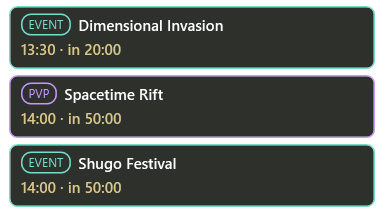
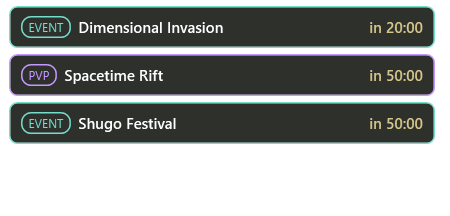
Compact event cards into one line with right-aligned countdown

diff --git a/src/AionMeter.App/Windows/TimerHubWindow.cs b/src/AionMeter.App/Windows/TimerHubWindow.cs
@@ -20,7 +20,7 @@ public sealed class TimerHubWindow : Window, IDisplayAppearance
         if (_header is not null) _header.Visibility=enabled ? Visibility.Collapsed : Visibility.Visible;
         foreach(var tile in _list.Children.OfType<Border>()) {
             tile.Background=EventPanelBrushes.Background;
-            if (tile.Child is StackPanel { Tag: EventStart item }) EventPulse.Apply(tile,EventPanelBrushes.ForKind(EventKinds.For(item.Id)),item.StartsAt <= (ClockOverride?.Invoke() ?? DateTimeOffset.UtcNow));
+            if (tile.Child is Grid { Tag: EventStart item }) EventPulse.Apply(tile,EventPanelBrushes.ForKind(EventKinds.For(item.Id)),item.StartsAt <= (ClockOverride?.Invoke() ?? DateTimeOffset.UtcNow));
         }
         foreach (var placeholder in _list.Children.OfType<TextBlock>())
             placeholder.Visibility = enabled ? Visibility.Collapsed : Visibility.Visible;
@@ -74,17 +74,17 @@ public sealed class TimerHubWindow : Window, IDisplayAppearance
             _list.Children.Clear(); _list.Tag=key;
             foreach(var item in events)
             {
-                var row=new StackPanel { Tag=item };
-                var heading=new DockPanel { LastChildFill=true };
+                var row=new Grid { Tag=item }; row.ColumnDefinitions.Add(new(){Width=GridLength.Auto}); row.ColumnDefinitions.Add(new(){Width=new GridLength(1,GridUnitType.Star)}); row.ColumnDefinitions.Add(new(){Width=GridLength.Auto});
+
                 var kind=EventKinds.For(item.Id);
                 var accent=EventPanelBrushes.ForKind(kind);
                 var badge=new Border { CornerRadius=new(6), BorderBrush=accent, BorderThickness=new(1), Padding=new(4,1,4,1), Margin=new(0,0,5,0),
                     Child=new TextBlock { Text=UiText.Current.Localize(kind), FontSize=8, Foreground=accent } };
-                DockPanel.SetDock(badge,Dock.Left); heading.Children.Add(badge);
-                heading.Children.Add(new TextBlock { Text=UiText.Current.Localize(item.Name), FontSize=10, FontWeight=FontWeights.SemiBold, VerticalAlignment=VerticalAlignment.Center, TextTrimming=TextTrimming.CharacterEllipsis });
-                row.Children.Add(heading);
-                row.Children.Add(new TextBlock { FontSize=10, FontWeight=FontWeights.SemiBold, Foreground=ColorBrush("#D8C789"), Margin=new(0,2,0,0) });
-                var tile=new Border { Child=row, CornerRadius=new(5), Padding=new(7,4,7,4), Height=42,
+                badge.VerticalAlignment=VerticalAlignment.Center; row.Children.Add(badge);
+                var name=new TextBlock { Text=UiText.Current.Localize(item.Name), FontSize=10, FontWeight=FontWeights.SemiBold, VerticalAlignment=VerticalAlignment.Center, TextTrimming=TextTrimming.CharacterEllipsis }; Grid.SetColumn(name,1); row.Children.Add(name);
+
+                var countdown=new TextBlock { FontSize=10, FontWeight=FontWeights.SemiBold, Foreground=ColorBrush("#D8C789"), Margin=new(8,0,0,0), VerticalAlignment=VerticalAlignment.Center, TextAlignment=TextAlignment.Right }; Grid.SetColumn(countdown,2); row.Children.Add(countdown);
+                var tile=new Border { Child=row, CornerRadius=new(5), Padding=new(7,4,7,4), Height=28,
                     Background=EventPanelBrushes.Background, BorderBrush=accent, BorderThickness=new(1), Margin=new(2),
                     ToolTip=$"{UiText.Current.Localize(item.Name)} · {UiText.Current.Localize(item.Id.StartsWith("boss:") ? "Time from in-game boss list" : "Community schedule · Shugo.GG")} ({UiText.Current.Localize(_cards.Saved.EventRegion)}). {UiText.Current.Localize("Double-click to open a separate window.")}" };
                 tile.MouseLeftButtonDown+=(_,e)=> {
@@ -99,9 +99,9 @@ public sealed class TimerHubWindow : Window, IDisplayAppearance
         }
         foreach(var border in _list.Children.OfType<Border>())
         {
-            var row=(StackPanel)border.Child; var item=(EventStart)row.Tag; var remaining=item.StartsAt-now;
+            var row=(Grid)border.Child; var item=(EventStart)row.Tag; var remaining=item.StartsAt-now;
             border.Width = Math.Max(220, (Width-16) / (Width>=460 ? 2 : 1));
-            ((TextBlock)row.Children[1]).Text=remaining <= TimeSpan.Zero ? string.Format(UiText.Current.Localize("Started · {0} ago"),$"{(int)(-remaining).TotalMinutes:00}:{(-remaining).Seconds:00}") : $"{TimerCards.StartLabel(item.StartsAt, now)} · {UiText.Current.Localize("in")} {(int)remaining.TotalMinutes:00}:{remaining.Seconds:00}";
+            ((TextBlock)row.Children[2]).Text=remaining <= TimeSpan.Zero ? $"{UiText.Current.Localize("Started")} · {(int)(-remaining).TotalMinutes:00}:{(-remaining).Seconds:00}" : $"{UiText.Current.Localize("in")} {(int)remaining.TotalMinutes:00}:{remaining.Seconds:00}";
         }
         SetDisplayOnly(_displayOnly);
     }

diff --git a/README.md b/README.md
@@ -4,7 +4,7 @@ A separate always-on-top Windows damage meter for AION 2 by Zerafithekitten.
 
 [Download the latest release](https://github.com/Zerafithekitten/CatScratch/releases/latest) · [Patch notes](data/patchnotes-en.md) · [Report an issue](https://github.com/Zerafithekitten/CatScratch/issues)
 
-Latest published version: **2.3.0**. English is the default; German, Russian and French are available in Settings.
+Latest published version: **2.3.1**. English is the default; German, Russian and French are available in Settings.
 
 ## Preview
 
@@ -77,10 +77,10 @@ Select the language in **Settings > General > Language**. English remains the de
 
 | Language | Interface | Availability |
 | --- | --- | --- |
-| English | English | Current release (2.3.0) · default |
-| German | Deutsch | Current release (2.3.0) |
-| Russian | Русский | Current release (2.3.0) |
-| French | Français | Current release (2.3.0) |
+| English | English | Current release (2.3.1) · default |
+| German | Deutsch | Current release (2.3.1) |
+| Russian | Русский | Current release (2.3.1) |
+| French | Français | Current release (2.3.1) |
 
 Skill and monster names use the bundled language tables, with English as the fallback for missing names. Player names are preserved.
 

diff --git a/data/patchnotes-en.md b/data/patchnotes-en.md
@@ -1,3 +1,7 @@
+## CatScratch v2.3.1
+
+- Display Upcoming events in compact single-line cards: event type and name on the left, countdown on the right. Remove scheduled clock times while retaining the two-minute started-event pulse.
+
 ## CatScratch v2.3.0
 
 - Make Upcoming events cards more compact without shrinking the text. Show today's start times without the Today label; retain Tomorrow/date labels across midnight.
